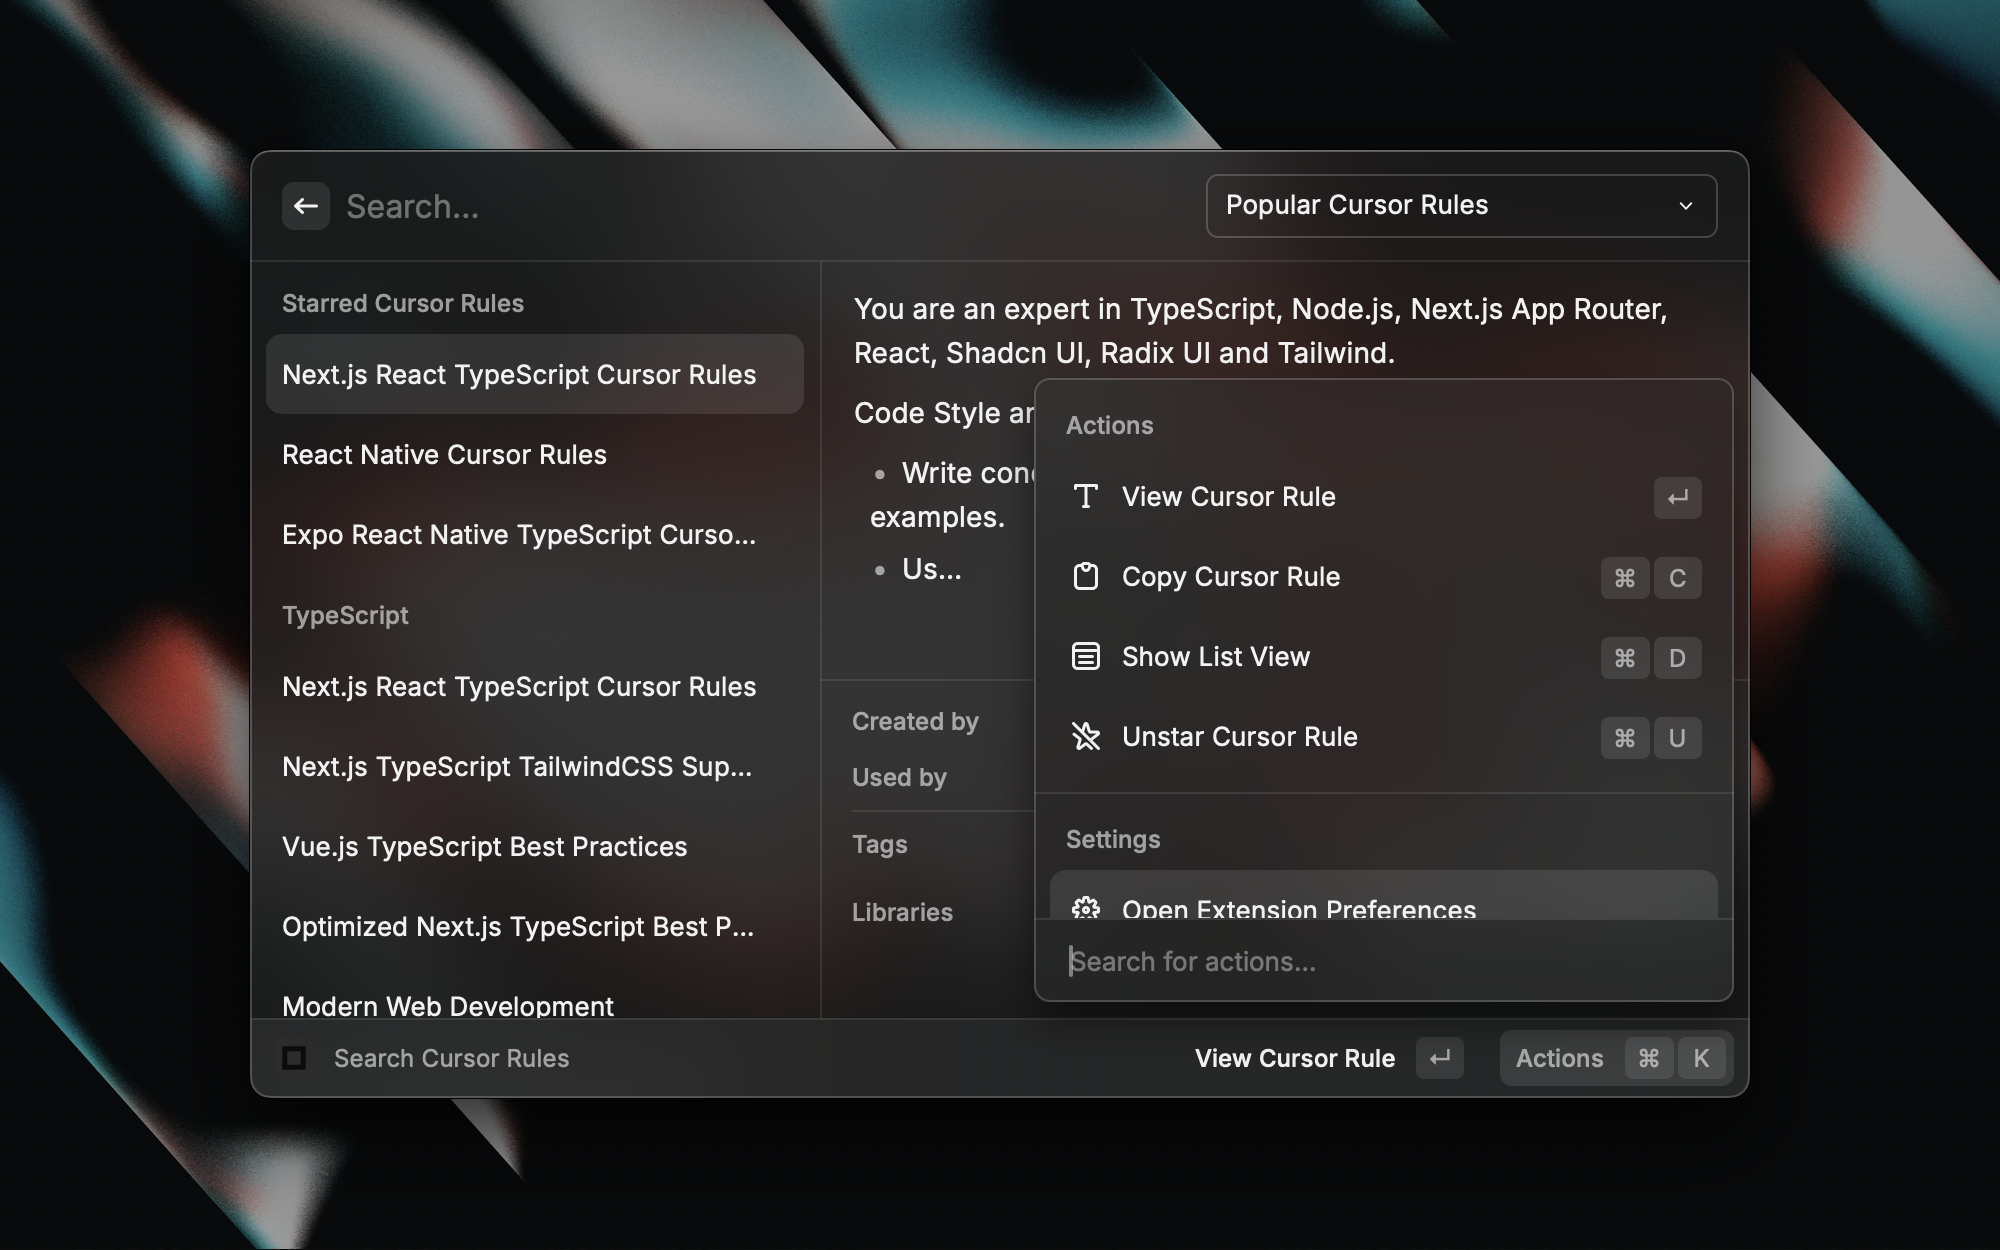
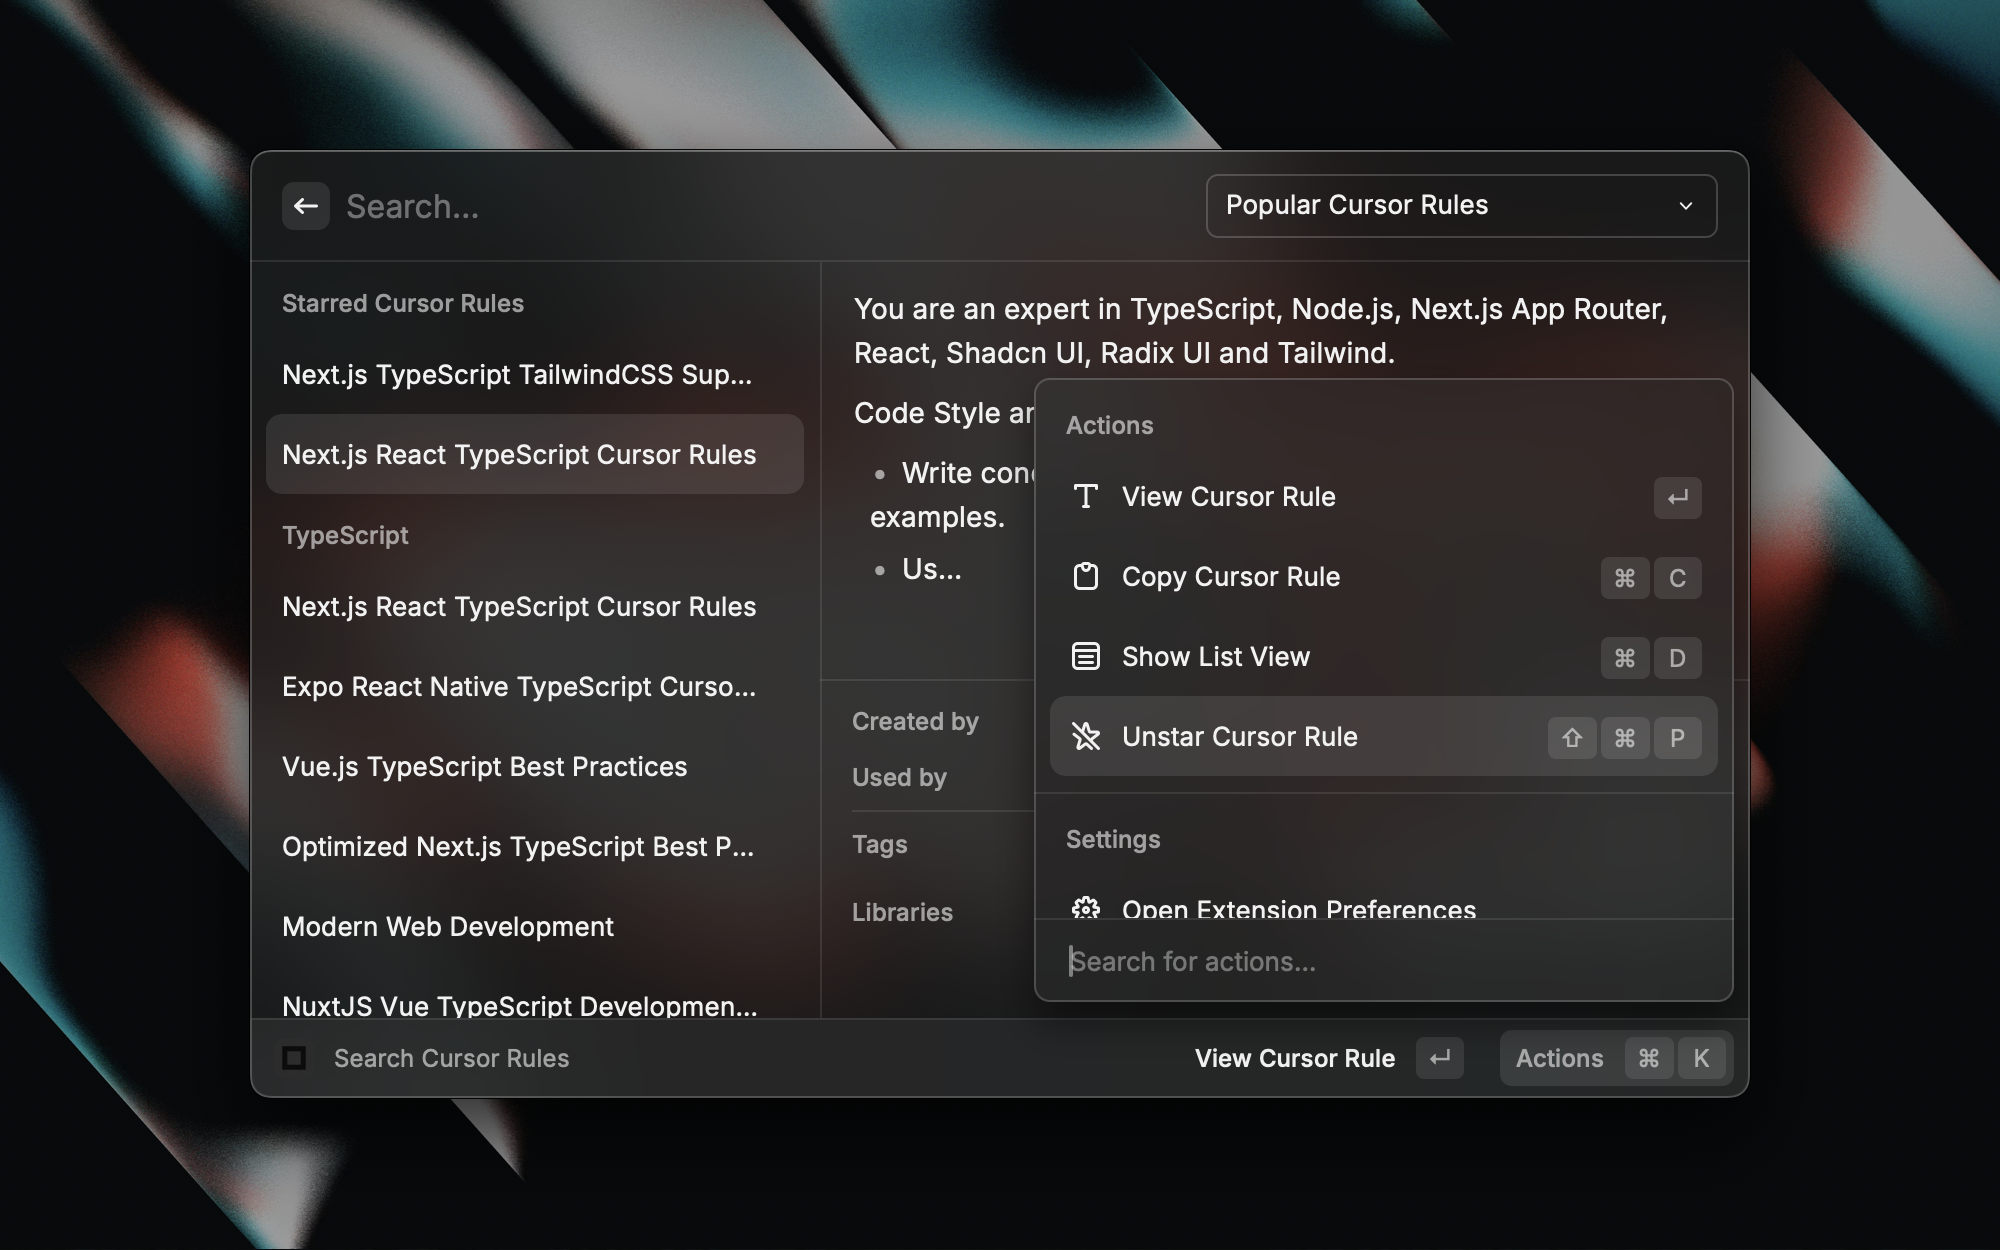
chore: update shortcut for star and unstar action

diff --git a/src/index.tsx b/src/index.tsx
@@ -113,7 +113,7 @@ export default function Command() {
                         <Action
                           title="Unstar Cursor Rule"
                           icon={Icon.StarDisabled}
-                          shortcut={{ modifiers: ["cmd"], key: "u" }}
+                          shortcut={{ modifiers: ["cmd", "shift"], key: "p" }}
                           onAction={async () => {
                             await unstarRule(cursorRule.slug);
                             await revalidateStarredRules();
@@ -166,7 +166,7 @@ export default function Command() {
                         <Action
                           title="Star Cursor Rule"
                           icon={Icon.Star}
-                          shortcut={{ modifiers: ["cmd"], key: "s" }}
+                          shortcut={{ modifiers: ["cmd", "shift"], key: "p" }}
                           onAction={async () => {
                             await starRule(cursorRule.slug);
                             await revalidateStarredRules();

diff --git a/CHANGELOG.md b/CHANGELOG.md
@@ -2,8 +2,8 @@
 
 ## [Features] - 2024-09-30
 
-- Allow to star and unstar cursor rules
-- Allow to search curated cursor Youtube videos
+- Allow star and unstar cursor rules
+- Allow search curated cursor Youtube videos
 
 ## [Refactors and Improvements] - 2024-09-15
 
